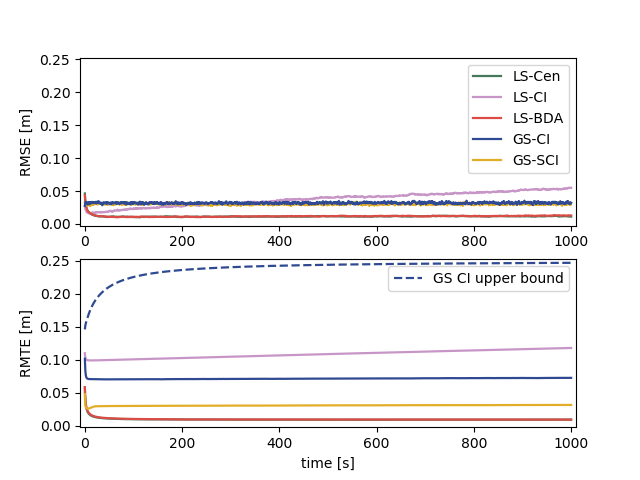
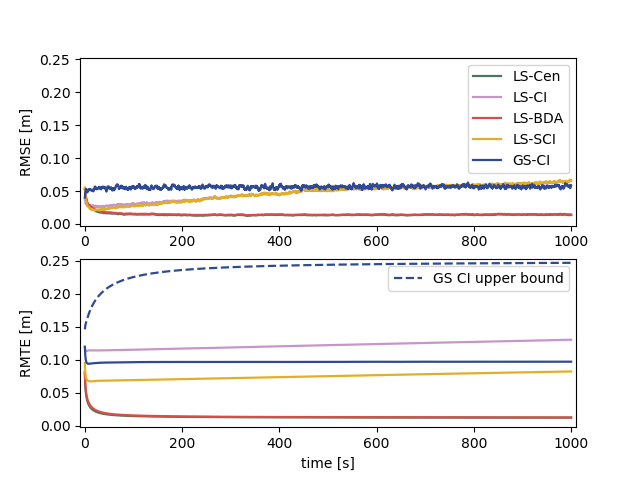
finish boundedness sim and plot

Changed region(s): [[0.125, 0.6875, 0.9062, 0.875], [0.125, 0.375, 0.9062, 0.4688], [0.75, 0.2812, 0.875, 0.3438]]

diff --git a/algorithm/ls_sci.py b/algorithm/ls_sci.py
@@ -1,0 +1,103 @@
+from numpy import matrix
+from math import cos, sin, atan2, sqrt
+
+import sim_env
+
+i_mtx_2 = sim_env.i_mtx_2
+i_mtx_10 = sim_env.i_mtx_10
+
+
+
+class LS_SCI:
+
+
+	def __init__(self , initial_s):
+
+		self.s = initial_s.copy()
+		self.sigma_i = 0.99 * sim_env.initial_cov.copy()
+		self.sigma_d = 0.01 * sim_env.initial_cov.copy()
+
+		# self.position = initial_s.copy()
+		self.theta = [0.0,0,0,0,0]
+
+
+	def motion_propagation_update(self, odometry_input, dt):
+
+		for i in range(sim_env.N):
+			[v, omega] = odometry_input[i]
+
+			ii = 2*i
+
+
+			self.theta[i] = self.theta[i] + omega * dt
+
+			# estimation update
+			self.s[ii,0] += cos(self.theta[i]) * v * dt
+			self.s[ii+1,0] += sin(self.theta[i]) * v * dt
+
+			# covariance update
+			rot_mtx_theta_i = sim_env.rot_mtx(self.theta[i])
+			self.sigma_i[ii:ii+2, ii:ii+2] += dt*dt*rot_mtx_theta_i*matrix([[sim_env.var_u_v, 0],[0, 0]])*rot_mtx_theta_i.T
+
+
+	def ablt_obsv_update(self, idx, obs_value, landmark):
+		ii = 2*idx
+		total_sigma = self.sigma_i + self.sigma_d
+
+		H_i = matrix([[0,0,0,0,0,0,0,0,0,0], [0,0,0,0,0,0,0,0,0,0]], dtype=float)
+		H_i[0, ii] = -1
+		H_i[1, ii+1] = -1
+
+		H = sim_env.rot_mtx(self.theta[idx]).getT()*H_i
+		
+		dis = obs_value[0]
+		phi = obs_value[1]
+
+		hat_z = sim_env.rot_mtx(self.theta[idx]).getT() * (landmark.position + H_i*self.s)
+		z = matrix([dis*cos(phi), dis*sin(phi)]).getT()
+
+		sigma_z = sim_env.rot_mtx(phi) * matrix([[sim_env.var_dis, 0],[0, dis*dis*sim_env.var_phi]]) * sim_env.rot_mtx(phi).getT() 
+		sigma_invention = H * total_sigma * H.getT()  + sigma_z
+		kalman_gain = total_sigma * H.getT() * sigma_invention.getI()
+
+
+		self.s = self.s + kalman_gain * (z-hat_z)
+
+		total_sigma = total_sigma - kalman_gain * H * total_sigma
+		self.sigma_i = (i_mtx_10.copy() - kalman_gain*H) * self.sigma_i * (i_mtx_10.copy() - kalman_gain*H).getT() + kalman_gain * sigma_z * kalman_gain.getT()
+		self.sigma_d = total_sigma - self.sigma_i
+
+
+
+
+
+	def rela_obsv_update(self, idx, obs_idx, obs_value):
+		ii = 2*idx
+		jj = 2*obs_idx
+
+		ci_coeff = 0.83
+
+		sigma_j = (1/ci_coeff) * self.sigma_d[jj:jj+2,jj:jj+2] + self.sigma_i[jj:jj+2,jj:jj+2]
+		sigma_i = (1/(1-ci_coeff)) * self.sigma_d[ii:ii+2,ii:ii+2] + self.sigma_i[ii:ii+2,ii:ii+2]
+
+		dis = obs_value[0]
+		phi = obs_value[1]
+
+		z = matrix([[dis*cos(phi)],[dis*sin(phi)]])
+
+		hat_j = self.s[ii:ii+2] + sim_env.rot_mtx(self.theta[idx]) * z
+
+		kalman_gain = sigma_j * (sigma_i + sigma_j).getI()
+
+		self.s[jj:jj+2] = self.s[jj:jj+2] + kalman_gain * (hat_j - self.s[jj:jj+2])
+
+		total_sigma = (i_mtx_2 - kalman_gain) * sigma_j
+
+		self.sigma_i[jj:jj+2,jj:jj+2] = (i_mtx_2 - kalman_gain) * self.sigma_i[jj:jj+2,jj:jj+2] * (i_mtx_2 - kalman_gain).getT() + kalman_gain * self.sigma_i[ii:ii+2,ii:ii+2] * kalman_gain.getT()
+ 
+		self.sigma_d[jj:jj+2,jj:jj+2] = total_sigma - self.sigma_i[jj:jj+2,jj:jj+2]
+
+
+	def getSigma(self):
+		return self.sigma_i + self.sigma_d
+

diff --git a/README.md b/README.md
@@ -44,6 +44,14 @@ For topology analysis, please run `topology_sim.py`.
 
 ## Covariance Boundedness
 
+![](boundedness_result/performance_dr.png)
+
+One trial with dead reckoning only. With identical odometry inputs, the estimation positions are the same across all algorithms.
+
+![](boundedness_result/performance_obs.png)
+
+One trial with dead reckoning and observation. LS-CI and LS-SCI have close estimation results.
+
 
 ![](boundedness_result/performance.png)
 
